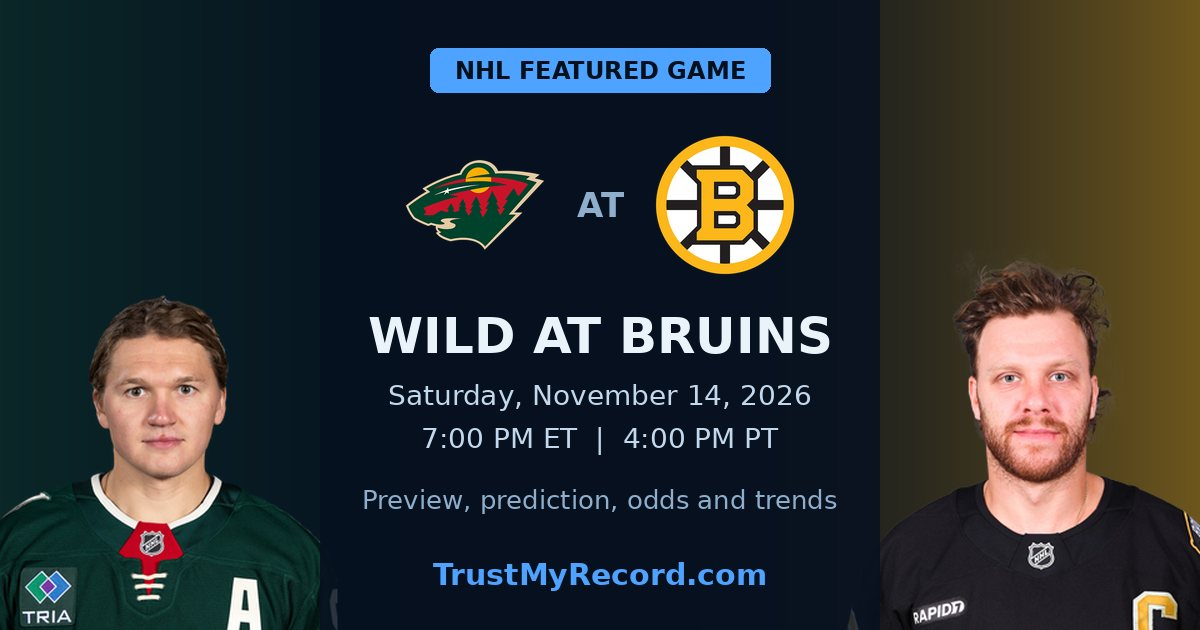
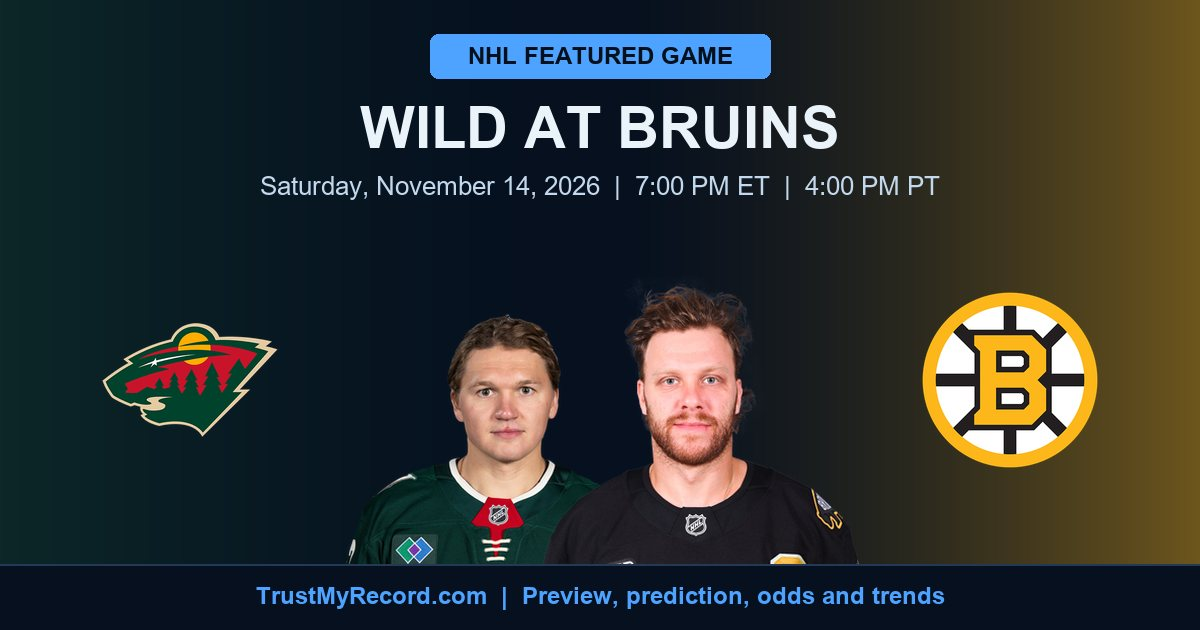
NHL featured card: players in the middle so the square crop keeps them; today's card rebuilt (OG_CENTRED_20261114)
The link preview card put the two lead players at the left and right edges,
so the centre square that platforms also show cut both off, and the image
gate failed every card. Players now stand together in the centre, the club
marks sit beside them, all text stays inside the frame.

diff --git a/scripts/nhl_featured_og.py b/scripts/nhl_featured_og.py
@@ -71,48 +71,47 @@ def build(root, ctx):
                 col = tuple(int(BASE[i] + (c[i] - BASE[i]) * k) for i in range(3))
                 xx = x if side == 0 else W - 1 - x
                 d.line([(xx, 0), (xx, H)], fill=col)
-        # lead players, bottom aligned at each edge
-        for side, t in (("away", a), ("home", h)):
-            ps = (ctx.get("key_players") or {}).get(side) or []
-            if ps and ps[0].get("headshot"):
-                try:
-                    face = _get(ps[0]["headshot"]).resize((420, 420), Image.LANCZOS)
-                    x = -50 if side == "away" else W - 370
-                    img.paste(face, (x, H - 420), face)
-                except Exception:
-                    pass
-        # centre panel
-        panel = Image.new("RGBA", (560, 630), (6, 16, 31, 0))
-        pd = ImageDraw.Draw(panel)
-        for y in range(630):
-            pd.line([(0, y), (560, y)], fill=(6, 16, 31, 215))
-        img.paste(panel, (320, 0), panel)
-        d = ImageDraw.Draw(img)
-        for i, t in enumerate((a, h)):
-            # the dark background version of the mark first, as on the page
-            for u in (t["logo"].replace("/teamlogos/nhl/500/", "/teamlogos/nhl/500-dark/"), t["logo"]):
-                try:
-                    logo = _get(u).resize((150, 150), Image.LANCZOS)
-                    img.paste(logo, (400 + i * 250, 130), logo)
-                    break
-                except Exception:
-                    continue
-        d.text((600, 205), "AT", font=_font(True, 34), fill=(143, 174, 203), anchor="mm")
+        # OG_CENTRED_20261114: link previews are also shown as a centre square, and
+        # the site's image gate checks it. The two lead players therefore stand
+        # together in the MIDDLE of the card (inside the square, a face never
+        # further than 100 px from the centre line), the club marks sit beside
+        # them, and every word stays inside the frame. The old layout put the
+        # players at the two edges, where the square crop cut them off.
+        d.rounded_rectangle([430, 34, 770, 78], radius=8, fill=(77, 163, 255))
+        d.text((600, 56), "NHL FEATURED GAME", font=_font(True, 24), fill=(4, 16, 28), anchor="mm")
 
-        def centre(y, text, size, bold=True, fill=(234, 242, 250)):
+        def centre(y, text, size, bold=True, fill=(234, 242, 250), width=1040):
             f = _font(bold, size)
-            while d.textlength(text, font=f) > 520 and size > 18:
+            while d.textlength(text, font=f) > width and size > 18:
                 size -= 2
                 f = _font(bold, size)
             d.text((600, y), text, font=f, fill=fill, anchor="mm")
 
-        d.rounded_rectangle([430, 48, 770, 92], radius=8, fill=(77, 163, 255))
-        d.text((600, 70), "NHL FEATURED GAME", font=_font(True, 24), fill=(4, 16, 28), anchor="mm")
-        centre(335, ("%s at %s" % (a["common"], h["common"])).upper(), 50)
-        centre(395, ctx["long_date"], 28, False, (195, 216, 236))
-        centre(438, "%s ET  |  %s PT" % (ctx["et_time"], ctx["pt_time"]), 28, False, (195, 216, 236))
-        centre(500, "Preview, prediction, odds and trends", 26, False, (143, 174, 203))
-        centre(575, "TrustMyRecord.com", 30, True, (77, 163, 255))
+        centre(128, ("%s at %s" % (a["common"], h["common"])).upper(), 58)
+        centre(186, "%s  |  %s ET  |  %s PT" % (ctx["long_date"], ctx["et_time"], ctx["pt_time"]), 26, False, (195, 216, 236))
+        for i, t in enumerate((a, h)):
+            # the dark background version of the mark first, as on the page
+            for u in (t["logo"].replace("/teamlogos/nhl/500/", "/teamlogos/nhl/500-dark/"), t["logo"]):
+                try:
+                    logo = _get(u).resize((190, 190), Image.LANCZOS)
+                    img.paste(logo, (95 if i == 0 else W - 285, 285), logo)
+                    break
+                except Exception:
+                    continue
+        for side, cx in (("away", 505), ("home", 695)):
+            ps = (ctx.get("key_players") or {}).get(side) or []
+            if ps and ps[0].get("headshot"):
+                try:
+                    face = _get(ps[0]["headshot"]).resize((340, 340), Image.LANCZOS)
+                    img.paste(face, (cx - 170, 245), face)
+                except Exception:
+                    pass
+        # footer bar over the jerseys: the site name, and it hides sponsor patches the frame would cut
+        bar = Image.new("RGBA", (W, 66), (6, 16, 31, 255))
+        img.paste(bar, (0, H - 66), bar)
+        d = ImageDraw.Draw(img)
+        d.line([(0, H - 66), (W, H - 66)], fill=(34, 58, 88), width=2)
+        d.text((600, H - 34), "TrustMyRecord.com  |  Preview, prediction, odds and trends", font=_font(True, 24), fill=(77, 163, 255), anchor="mm")
         os.makedirs(os.path.dirname(path), exist_ok=True)
         img.save(path, "JPEG", quality=84, optimize=True, progressive=True)
         return "/" + rel, (W, H)
